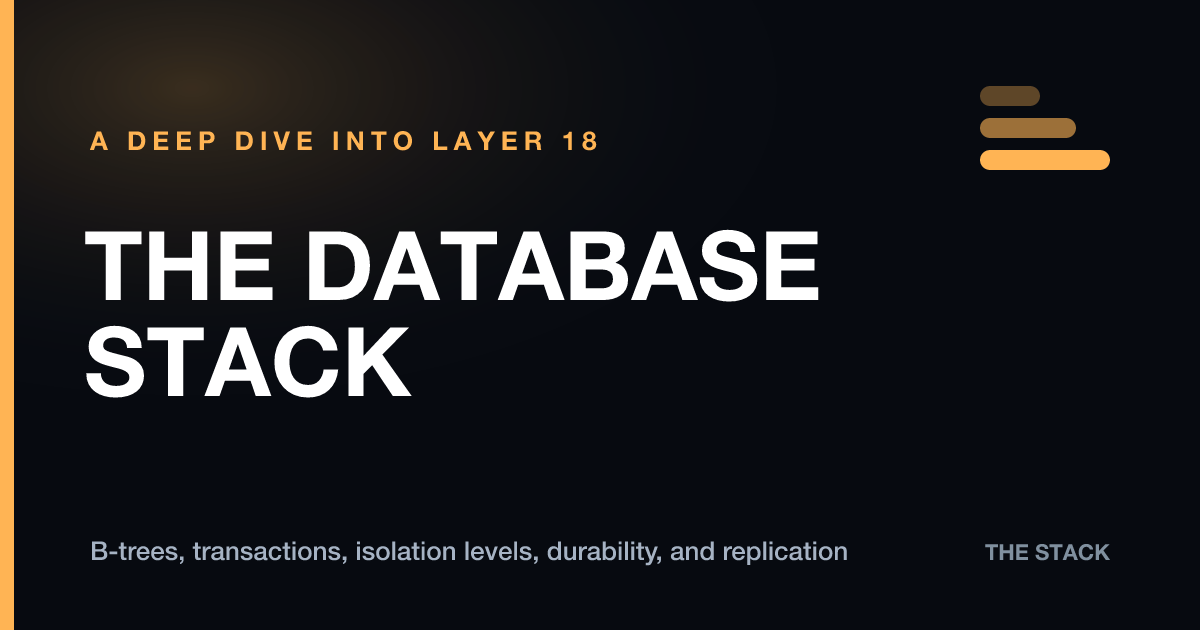
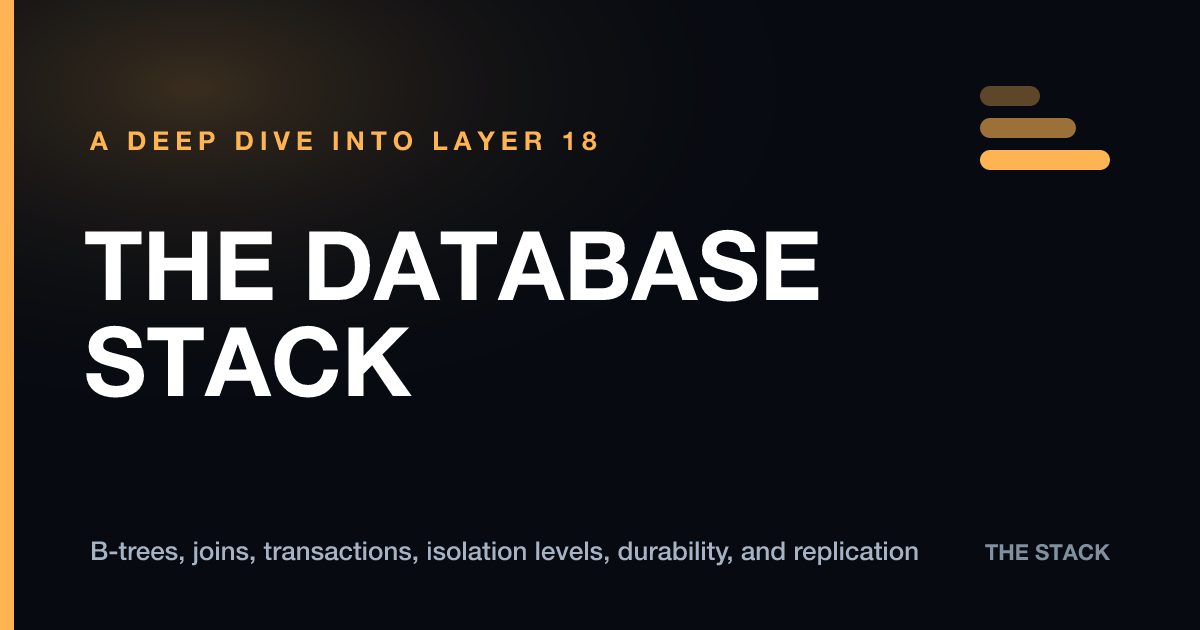
Deepen /database with joins
Adds a Joins section after Queries — the defining "combine tables" operation
the stack didn't yet show. Grows /database from 7 to 8.

- buildJoin (+ JOIN_USERS/JOIN_ORDERS): an inner join users ⋈ orders ON
  user_id, run as a nested loop — for each user, check every order, emit
  matches, drop unmatched (Bo), count the n×m comparisons (new Join.svelte,
  two source tables + a growing result table).
- Cross-ref → /structures (a hash join builds a hash map on one side, O(n+m));
  Queries now hands off to joins, and the Why covers index-nested-loop too.
- dbLayers renumbered (transactions D3→D4 … replication D6→D7); stacks.js blurb
  + OG card updated; e2e bumped to 8 rungs with a join-result assertion (and the
  isolation selector moved to #D5).

All gates green: 226 unit tests, audit + axe (0 violations across 18 pages),
38 e2e tests passing.

Changed region(s): [[0.1542, 0.8444, 0.7708, 0.9048]]

diff --git a/src/components/Join.svelte b/src/components/Join.svelte
@@ -1,0 +1,59 @@
+<script>
+  import { useStepper } from '../lib/stepper.svelte.js';
+  import { buildJoin, JOIN_USERS, JOIN_ORDERS } from '../lib/widgets.js';
+  import Stepper from './Stepper.svelte';
+  const stepper = useStepper(() => buildJoin(), { speed: 900 });
+  const { idx } = stepper;
+  let s = $derived(stepper.all()[$idx]);
+</script>
+<div class="widget">
+  <div class="csbar">
+    <span class="csmini">users ⋈ orders · inner join on user_id</span>
+    <span class="spacer"></span>
+    <span class="csmini jn-cmp">{s.comparisons} comparisons</span>
+  </div>
+  <div class="w-label">step the nested loop — each user is checked against every order</div>
+  <div class="jn-tables">
+    <table class="jn-tbl">
+      <caption>users</caption>
+      <thead><tr><th scope="col">id</th><th scope="col">name</th></tr></thead>
+      <tbody>
+        {#each JOIN_USERS as u}<tr class:on={u.id === s.left}><td>{u.id}</td><td>{u.name}</td></tr>{/each}
+      </tbody>
+    </table>
+    <table class="jn-tbl">
+      <caption>orders</caption>
+      <thead><tr><th scope="col">id</th><th scope="col">user_id</th><th scope="col">item</th></tr></thead>
+      <tbody>
+        {#each JOIN_ORDERS as o}<tr class:on={o.id === s.right} class:hit={o.id === s.right && s.match}><td>{o.id}</td><td>{o.user_id}</td><td>{o.item}</td></tr>{/each}
+      </tbody>
+    </table>
+  </div>
+  <div class="jn-result">
+    <div class="jn-rlab">result {s.result.length ? '· ' + s.result.length + ' rows' : ''}</div>
+    {#if s.result.length}
+      <table class="jn-tbl out">
+        <thead><tr><th scope="col">name</th><th scope="col">item</th></tr></thead>
+        <tbody>{#each s.result as r}<tr><td>{r.name}</td><td>{r.item}</td></tr>{/each}</tbody>
+      </table>
+    {:else}<div class="jn-empty">no rows yet</div>{/if}
+  </div>
+  <div class="csnote" role="status" aria-live="polite">{s.note}</div>
+  <Stepper {stepper} />
+</div>
+
+<style>
+  .jn-cmp{color:var(--amber)}
+  .jn-tables{display:flex;gap:16px;flex-wrap:wrap;font-family:var(--mono)}
+  .jn-tbl{border-collapse:collapse;font-size:13px}
+  .jn-tbl caption{font-size:11px;letter-spacing:.08em;text-transform:uppercase;color:var(--faint);text-align:left;margin-bottom:6px}
+  .jn-tbl th,.jn-tbl td{border:1px solid var(--border);padding:5px 12px;text-align:left;color:var(--dim)}
+  .jn-tbl thead th{font-size:11px;color:var(--faint);font-weight:600}
+  .jn-tbl tbody tr.on td{background:var(--blue-d);border-color:var(--blue);color:var(--blue)}
+  .jn-tbl tbody tr.hit td{background:var(--signal-d);border-color:var(--signal);color:var(--signal);font-weight:700}
+  .jn-result{margin-top:16px}
+  .jn-rlab{font-size:11px;letter-spacing:.08em;text-transform:uppercase;color:var(--faint);margin-bottom:6px}
+  .jn-tbl.out th,.jn-tbl.out td{border-color:var(--signal)}
+  .jn-tbl.out td{color:var(--ink)}
+  .jn-empty{font-family:var(--mono);font-size:13px;color:var(--faint)}
+</style>

diff --git a/src/lib/widgets.js b/src/lib/widgets.js
@@ -386,6 +386,33 @@ export function buildDiffieHellman({ p = 23, g = 5, a = 6, b = 15 } = {}) {
 
 // --- DATABASE STACK (/database) ---
 
+// A join combines rows from two tables wherever a key matches. This traces an
+// inner join (users ⋈ orders ON users.id = orders.user_id) by the simplest
+// algorithm — a nested loop: for every left row, scan every right row. It emits
+// matched pairs, drops unmatched left rows, and counts comparisons (the n×m cost
+// an index or hash join exists to avoid).
+export const JOIN_USERS = [{ id: 1, name: 'Ana' }, { id: 2, name: 'Bo' }, { id: 3, name: 'Cy' }];
+export const JOIN_ORDERS = [{ id: 91, user_id: 1, item: 'book' }, { id: 92, user_id: 1, item: 'pen' }, { id: 93, user_id: 3, item: 'lamp' }];
+export function buildJoin() {
+  const out = [];
+  const result = [];
+  let comparisons = 0;
+  const snap = (note, o = {}) => out.push({ left: o.left ?? null, right: o.right ?? null, match: o.match ?? null, result: result.map((r) => ({ ...r })), comparisons, note, done: !!o.done });
+  snap('an inner join stitches two tables together where a key lines up — here users ⋈ orders on users.id = orders.user_id');
+  for (const u of JOIN_USERS) {
+    let matched = 0;
+    for (const o of JOIN_ORDERS) {
+      comparisons++;
+      const hit = u.id === o.user_id;
+      if (hit) { matched++; result.push({ name: u.name, item: o.item }); }
+      snap('compare ' + u.name + ' (id ' + u.id + ') with order ' + o.id + ' (user_id ' + o.user_id + ') → ' + (hit ? 'match → emit (' + u.name + ', ' + o.item + ')' : 'no match'), { left: u.id, right: o.id, match: hit });
+    }
+    if (!matched) snap(u.name + ' had no matching orders → an inner join drops them entirely', { left: u.id });
+  }
+  snap(result.length + ' rows out, after ' + comparisons + ' comparisons — every user against every order (n×m). An index on orders.user_id, or a hash join, turns that scan into a lookup', { done: true });
+  return out;
+}
+
 // A tiny B-tree over keys 1..15: a root of separator keys and four leaves.
 export const BTREE = {
   root: { keys: [4, 8, 12], children: ['n0', 'n1', 'n2', 'n3'] },

diff --git a/src/lib/widgets.test.js b/src/lib/widgets.test.js
@@ -1,7 +1,7 @@
 import { describe, it, expect } from 'vitest';
 import { quizzes } from '../data/quizzes.js';
 import { stacks } from '../data/stacks.js';
-import { buildCpu, buildEnc, buildPkt, buildCloudHops, PACKET_FRAGMENTS, decodeMiniFloat, buildRace, buildRouting, buildDns, buildLex, buildVm, invalidatedStages, toyHash, modpow, buildDiffieHellman, buildBTreeSearch, buildTransaction, buildCache, buildAddressTranslation, buildSyscall, buildDynamicArray, buildHashMap, twosValue, buildTwosComplement, buildFloatGrid, buildFloatSum, DOPING, buildDiode, cmosInverter, nand, buildUniversal, mux2, ALU_OPS, computeAlu, PIPE_STAGES, buildPipeline, buildDeadlock, buildCas, buildLoadBalancer, buildReplication, buildLinkedList, buildStackQueue, GRAPH, buildGraphTraversal, buildStackHeap, buildAllocator, buildGc, ISOLATION_LEVELS, buildIsolation, buildTypeCheck, buildEventLoop, FS, buildPathResolve, buildJournal, buildSockets, buildHttp } from './widgets.js';
+import { buildCpu, buildEnc, buildPkt, buildCloudHops, PACKET_FRAGMENTS, decodeMiniFloat, buildRace, buildRouting, buildDns, buildLex, buildVm, invalidatedStages, toyHash, modpow, buildDiffieHellman, buildBTreeSearch, buildTransaction, buildCache, buildAddressTranslation, buildSyscall, buildDynamicArray, buildHashMap, twosValue, buildTwosComplement, buildFloatGrid, buildFloatSum, DOPING, buildDiode, cmosInverter, nand, buildUniversal, mux2, ALU_OPS, computeAlu, PIPE_STAGES, buildPipeline, buildDeadlock, buildCas, buildLoadBalancer, buildReplication, buildLinkedList, buildStackQueue, GRAPH, buildGraphTraversal, buildStackHeap, buildAllocator, buildGc, ISOLATION_LEVELS, buildIsolation, buildTypeCheck, buildEventLoop, FS, buildPathResolve, buildJournal, buildSockets, buildHttp, buildJoin } from './widgets.js';
 
 const popcount = (n) => { let c = 0; n >>>= 0; while (n) { c += n & 1; n >>>= 1; } return c; };
 
@@ -747,6 +747,23 @@ describe('buildHttp (request/response)', () => {
     const statusIdx = steps.findIndex((s) => s.status === 200);
     const bodyIdx = steps.findIndex((s) => s.done);
     expect(statusIdx).toBeLessThan(bodyIdx);
+  });
+});
+
+describe('buildJoin (inner join, nested loop)', () => {
+  const steps = buildJoin();
+  const last = steps[steps.length - 1];
+  it('emits matched pairs and drops unmatched left rows (inner join)', () => {
+    expect(last.result).toEqual([
+      { name: 'Ana', item: 'book' },
+      { name: 'Ana', item: 'pen' },
+      { name: 'Cy', item: 'lamp' },
+    ]);
+    // Bo has no orders → not in the result
+    expect(last.result.some((r) => r.name === 'Bo')).toBe(false);
+  });
+  it('does n×m comparisons (3 users × 3 orders = 9)', () => {
+    expect(last.comparisons).toBe(9);
   });
 });
 

diff --git a/e2e/widgets.spec.js b/e2e/widgets.spec.js
@@ -61,7 +61,7 @@ test('Adder island: setting the high A bit carries into a sum of 16', async ({ p
 test('Database page: own nav, B-tree finds the key, a crash without a txn loses money, isolation levels differ', async ({ page }) => {
   await page.goto('/database');
   await expect(page.locator('h1.title')).toContainText('DATABASE');
-  await expect(page.locator('.spine .rung')).toHaveCount(7);
+  await expect(page.locator('.spine .rung')).toHaveCount(8);
   // b-tree: descend to the found key
   const bt = page.locator('#D1');
   await bt.scrollIntoViewIfNeeded();
@@ -71,8 +71,17 @@ test('Database page: own nav, B-tree finds the key, a crash without a txn loses 
     await page.waitForTimeout(40);
   }
   await expect(bt.locator('.bt-key.found')).toHaveText('10');
+  // joins (section D3): stepping the nested loop produces the matched result rows
+  const jn = page.locator('#D3');
+  await jn.scrollIntoViewIfNeeded();
+  for (let i = 0; i < 12; i++) {
+    await jn.locator('.cpu-ctrl button').first().click();
+    if (await jn.locator('.jn-tbl.out tbody tr').count() >= 3) break;
+    await page.waitForTimeout(40);
+  }
+  await expect(jn.locator('.jn-tbl.out tbody tr')).toHaveCount(3);
   // transaction off → the crash loses money (total drops to 250)
-  const tx = page.locator('#D3');
+  const tx = page.locator('#D4');
   await tx.scrollIntoViewIfNeeded();
   const txBtn = tx.getByRole('button', { name: /transaction:/ });
   await expect(async () => {
@@ -85,8 +94,8 @@ test('Database page: own nav, B-tree finds the key, a crash without a txn loses 
     await page.waitForTimeout(40);
   }
   await expect(tx.locator('.txn-acct.total .txn-val')).toHaveText('250');
-  // isolation (section D4): READ UNCOMMITTED exposes a dirty read
-  const iso = page.locator('#D4');
+  // isolation (section D5): READ UNCOMMITTED exposes a dirty read
+  const iso = page.locator('#D5');
   await iso.scrollIntoViewIfNeeded();
   await expect(async () => {
     await iso.getByRole('button', { name: 'READ UNCOMMITTED' }).click();

diff --git a/src/data/dbLayers.js b/src/data/dbLayers.js
@@ -4,8 +4,9 @@ export const dbLayers = [
   { id: 'D0', num: '00', navLabel: 'Tables', zone: 'system', title: 'Tables: rows in a heap', sub: 'database · rows · columns · pages' },
   { id: 'D1', num: '01', navLabel: 'Indexes', zone: 'system', title: 'Indexes: find without scanning', sub: 'database · the B-tree · O(log n)' },
   { id: 'D2', num: '02', navLabel: 'Queries', zone: 'system', title: 'Queries: ask for a slice', sub: 'database · SELECT · the planner' },
-  { id: 'D3', num: '03', navLabel: 'Transactions', zone: 'system', title: 'Transactions: all or nothing', sub: 'database · ACID · atomicity' },
-  { id: 'D4', num: '04', navLabel: 'Isolation', zone: 'system', title: 'Isolation: transactions that don’t collide', sub: 'database · dirty & non-repeatable reads · MVCC' },
-  { id: 'D5', num: '05', navLabel: 'Durability', zone: 'system', title: 'Durability: surviving a crash', sub: 'database · the write-ahead log' },
-  { id: 'D6', num: '06', navLabel: 'Replication', zone: 'all', title: 'Replication: copies that survive', sub: 'the whole trip · scale & failover' },
+  { id: 'D3', num: '03', navLabel: 'Joins', zone: 'system', title: 'Joins: stitching tables together', sub: 'database · matching on a key · nested loop vs hash' },
+  { id: 'D4', num: '04', navLabel: 'Transactions', zone: 'system', title: 'Transactions: all or nothing', sub: 'database · ACID · atomicity' },
+  { id: 'D5', num: '05', navLabel: 'Isolation', zone: 'system', title: 'Isolation: transactions that don’t collide', sub: 'database · dirty & non-repeatable reads · MVCC' },
+  { id: 'D6', num: '06', navLabel: 'Durability', zone: 'system', title: 'Durability: surviving a crash', sub: 'database · the write-ahead log' },
+  { id: 'D7', num: '07', navLabel: 'Replication', zone: 'all', title: 'Replication: copies that survive', sub: 'the whole trip · scale & failover' },
 ];

diff --git a/src/data/stacks.js b/src/data/stacks.js
@@ -17,6 +17,6 @@ export const stacks = [
   { slug: 'crypto', name: 'Crypto', kind: 'stack', layer: '15', accent: '#ff6b6b', blurb: 'hashing, keys, key exchange, certificates, and TLS' },
   { slug: 'network', name: 'Network', kind: 'stack', layer: '16', accent: '#5b9dff', blurb: 'encapsulation, routing, DNS, sockets, HTTP, and a packet’s journey' },
   { slug: 'cloud', name: 'Cloud', kind: 'stack', layer: '17', accent: '#2ee6c0', blurb: 'scaling out, load balancing, replicas, and the CAP tradeoff' },
-  { slug: 'database', name: 'Database', kind: 'stack', layer: '18', accent: '#ffb454', blurb: 'B-trees, transactions, isolation levels, durability, and replication' },
+  { slug: 'database', name: 'Database', kind: 'stack', layer: '18', accent: '#ffb454', blurb: 'B-trees, joins, transactions, isolation levels, durability, and replication' },
   { slug: 'render', name: 'Render', kind: 'pipeline', layer: '19', accent: '#a78bfa', blurb: 'DOM, style, layout, paint, compositing, and the event loop' },
 ];

diff --git a/README.md b/README.md
@@ -70,7 +70,7 @@ src/
     compiler.astro        a /compiler deep-dive (lex → parse → type check → bytecode → optimize → run)
     render.astro          a /render deep-dive (DOM → style → layout → paint → composite → the event loop)
     crypto.astro          a /crypto deep-dive (hashing → keys → exchange → certs → TLS)
-    database.astro        a /database deep-dive (tables → indexes → queries → txns → isolation → durability → replication)
+    database.astro        a /database deep-dive (tables → indexes → queries → joins → txns → isolation → durability → replication)
     memory.astro          a /memory deep-dive (addresses → stack/heap → allocation → GC → cache → hierarchy → virtual memory → TLB)
     os.astro              an /os deep-dive (processes → scheduler → context switch → syscalls → interrupts → filesystem → journaling)
     structures.astro      a /structures deep-dive (arrays → linked lists → stacks/queues → hash maps → trees → graphs → big-O)